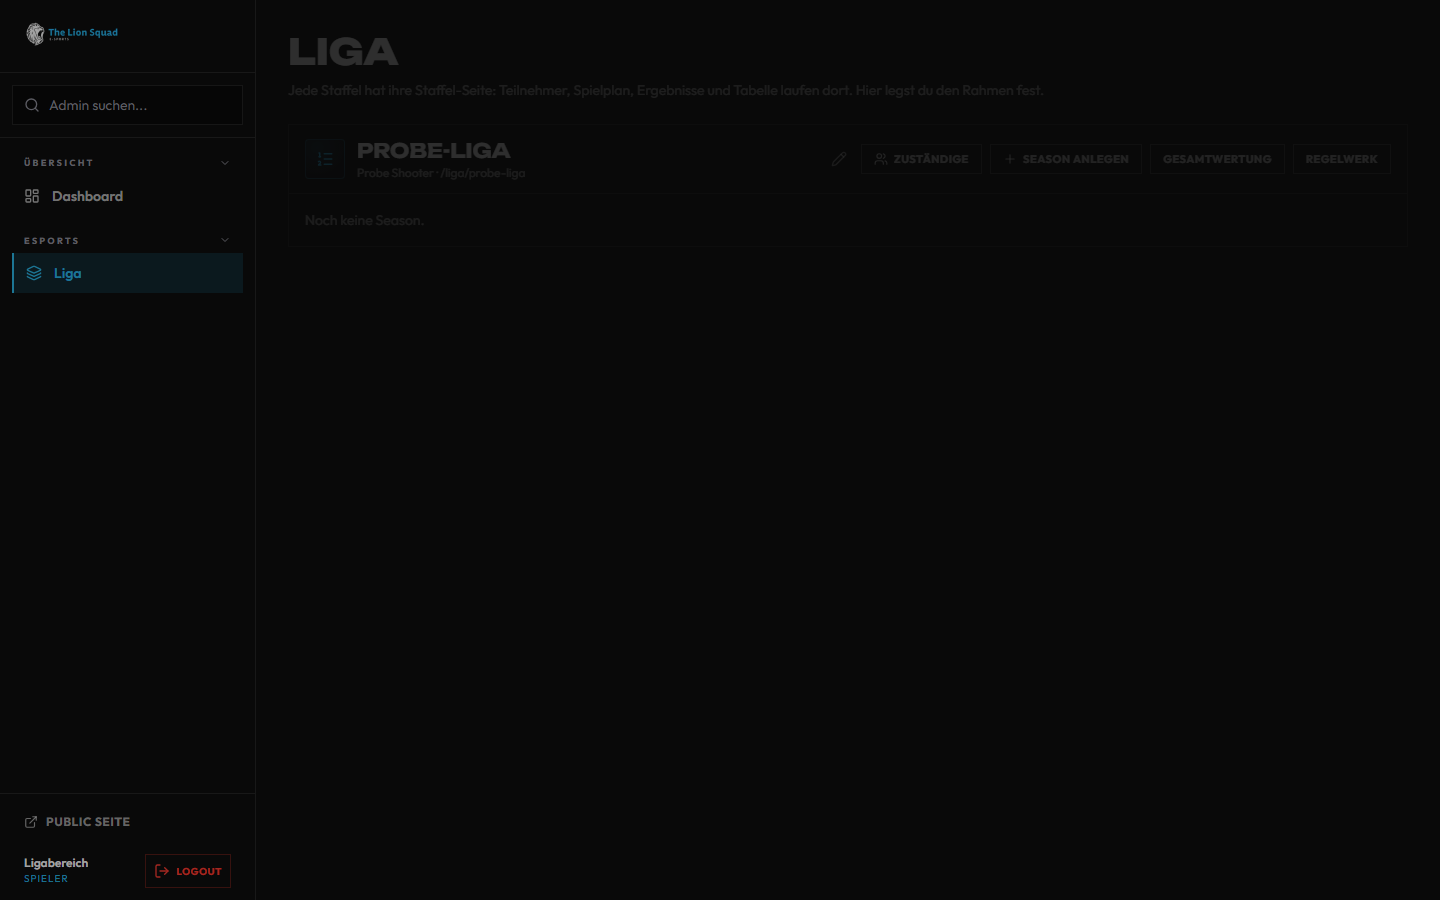
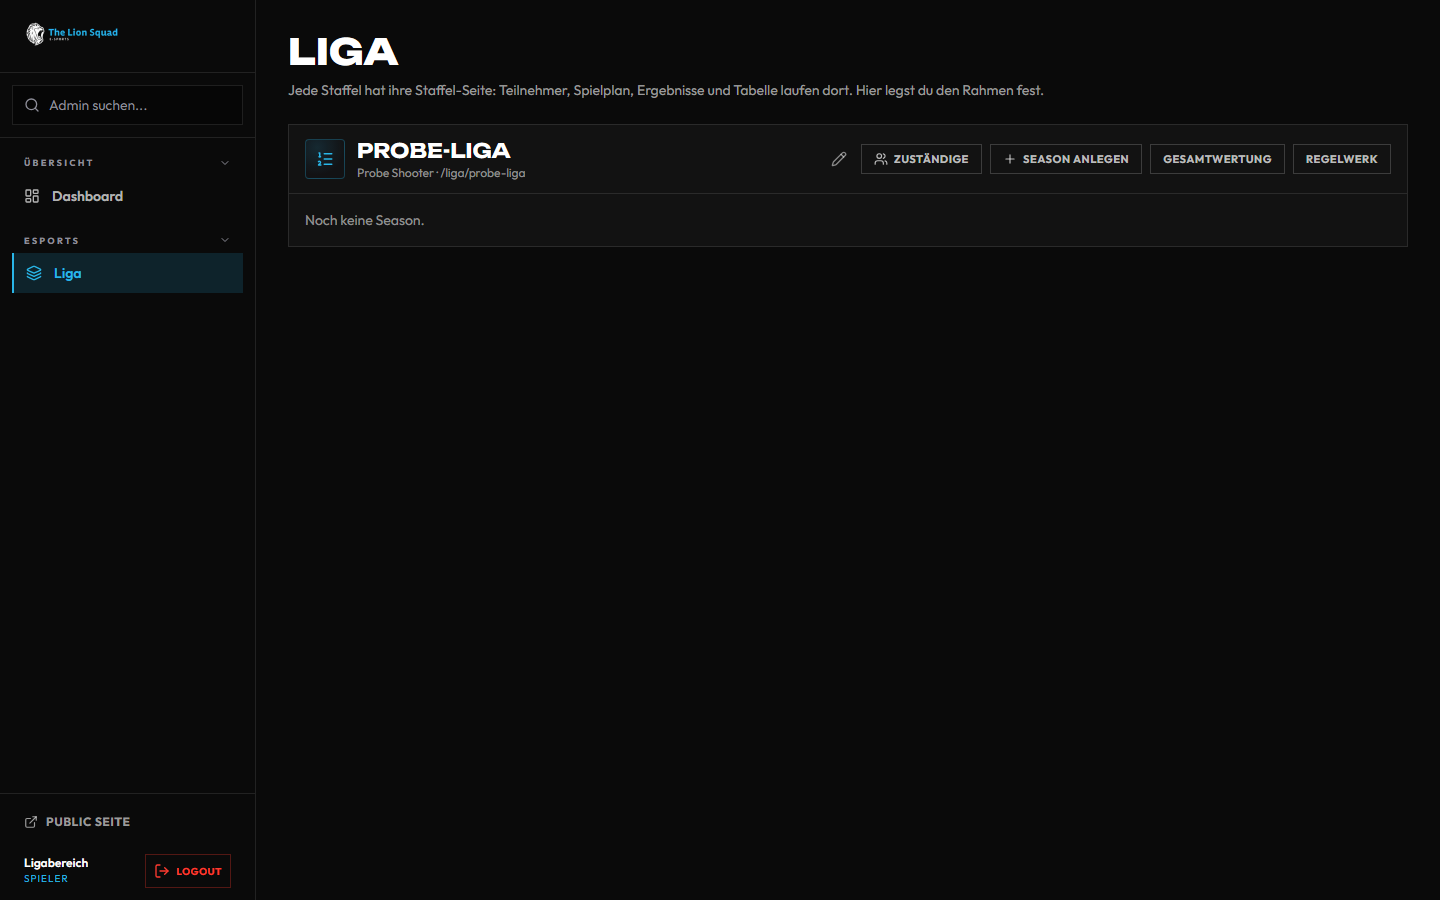
docs: Bild des Menüs der Liga-Leitung nach der Einblendung, Handbuch zu alten Staffel-Einsätzen (#2262)

diff --git a/frontend/e2e/admin-tournaments-without-staffeln.spec.js b/frontend/e2e/admin-tournaments-without-staffeln.spec.js
@@ -147,6 +147,9 @@ for (const [width, height] of [[390, 844], [1440, 900]]) {
     await expect(page.locator('a[href="/admin/leagues"]:visible').first()).toBeVisible();
     await expect(page.locator('nav a[href="/admin/tournaments"]')).toHaveCount(0);
     await noSideScroll(page);
+    // Seite und Schublade blenden ein - das Bild erst, wenn keine Animation mehr läuft (bei 1440 px war der Inhalt sonst fast schwarz).
+    await page.waitForFunction(() => document.getAnimations().every((animation) => animation.playState !== "running"));
+    await expect(page.getByRole("heading", { level: 1 })).toHaveCSS("opacity", "1");
     await shot(page, `menue-liga-leitung-${width}.png`);
   });
 }

diff --git a/docs/handbuch/liga.md b/docs/handbuch/liga.md
@@ -116,7 +116,7 @@ automatisch. Bis zu dieser Vergabe sehen bisherige Turnierleiter von der Liga nu
 - **Bilder:** Zuständige ohne Admin-Medien laden Emblem, Banner und Gewinnbilder als eigene Bilder hoch (kein SVG), die Mediathek zeigt ihnen nur diese.
 - Vergeben und entfernen darf nur der Bereich **Ligen**. Liga anlegen und löschen auch.
 - **Co-Teams in einer laufenden Staffel:** Kader, Captain, Vertreter und Status ändern nur noch die eigene Teamleitung und die Liga-Leitung mit **Kader prüfen** (Season → Reiter **Anmeldung und Kader** → **Kader und Spiel-IDs** → **Kader bearbeiten**). Die Turnierleitung nicht mehr. Nach dem Ende der Staffel gilt wieder alles wie vorher.
-- **Helfer** am Turnier (Organisation, Schiedsrichter, Ergebnisdienst, Station) lesen in einer Staffel nur noch. Ergebnisse tragen dort nur Zuständige und der Bereich Ligen ein.
+- **Helfer** am Turnier (Organisation, Schiedsrichter, Ergebnisdienst, Station) lesen in einer Staffel nur noch. Ergebnisse tragen dort nur Zuständige und der Bereich Ligen ein. Alte Helfer-Einsätze in einer Staffel stehen in **Mein Dienst** nur bei Personen mit einem Recht in dieser Liga, sonst gar nicht, und sie zählen nicht als Turnier-Einsatz.
 
 **Befangenheit:** Wer in einem Spiel selbst beteiligt ist (Kader einer Seite, Captain, Vertreter, Hauptteam-Leitung), korrigiert dort
 keine Ergebnisse, entscheidet keine Proteste, verhängt keine Strafen und setzt keinen Termin direkt. Die Matchseite und der Matchplan sagen es, der

diff --git a/docs/LIGA.md b/docs/LIGA.md
@@ -2234,7 +2234,9 @@ ohne Liga, Liga-Leitung mit `manage` die Staffeln ihrer Ligen.
 
 **Wege des Servers in die Verwaltung (#2262, Paket D):** `staffel_guard.tournament_admin_path(t, anchor=, tab=)` führt eine Staffel auf
 `/admin/leagues/staffeln/<id>` (mit Sprungmarke), ein Turnier auf `/admin/tournaments/<id>` (mit `?tab=`). Genutzt von Mein Dienst
-(Helfer-Einsatz → `#helfer`), `ended_live` und Admin → Strafen (Kampflos → `#spiele`). `league_links` trägt für die Verwaltung
+(Helfer-Einsatz → `#helfer`; eine Staffel-Zeile nur mit Lese-Recht in ihrer Liga, `league_permissions.can(user, READ, league_id)`,
+Fabian 18.11.), `ended_live` und Admin → Strafen (Kampflos → `#spiele`). `has_staff_assignment` im Profil zählt alte Einsätze in Staffeln nicht
+(`auth._tournament_assignment_outside_staffeln`). `league_links` trägt für die Verwaltung
 zusätzlich `league_id` (Brotkrumen). Die Startseite der Verwaltung (`GET /api/admin/dashboard`) zählt `open_disputes`,
 `active_tournaments`, `registration_open`, `total_tournaments` sowie in `daily_tasks` `reported_results` und `schedule_deadlines` ohne
 Staffeln (`daily_center.count_without_staffeln`, eine Aggregation je Turnier); für den Bereich Ligen kommt

diff --git a/docs/handbuch/admin.md b/docs/handbuch/admin.md
@@ -269,7 +269,9 @@ führt nach `/admin`, und das öffnet die eigene Arbeit statt „Kein Zugriff“
 - **Helfer** landen auf **Mein Dienst** (`/admin/dienst`): ihre Turniere und Fast Laps, **heute zuerst**, je mit
   Uhrzeit, ihrer **Rolle** samt dem Satz, was sie darf, und dem Knopf **Turnierleitung öffnen** (die Ansicht `/tournaments/<Name>/leitung`, siehe
   [Turniere](turniere.md)) bzw. **Fast Lap öffnen**. **Vorbereiten** führt in die Turnierverwaltung,
-  bei einem alten Einsatz in einer Liga-Staffel auf deren Staffel-Seite (**Einstellungen → TV und Helfer**, nur lesend). Abgeschaltete
+  bei einem alten Einsatz in einer Liga-Staffel auf deren Staffel-Seite (**Einstellungen → TV und Helfer**, nur lesend). Solche
+  alten Staffel-Einsätze stehen nur bei Personen, die in dieser Liga ein Recht haben; sie zählen auch nicht als Turnier-Einsatz
+  (kein Menüpunkt „Turniere“ nur deswegen). Abgeschaltete
   Einsätze und Turniere, die vorbei sind, stehen nicht mehr da.
 - **Moderatoren** landen direkt bei den **Meldungen** (`/admin/moderation`). Unter „Mein Dienst“ steht die Zahl der
   offenen Meldungen.
